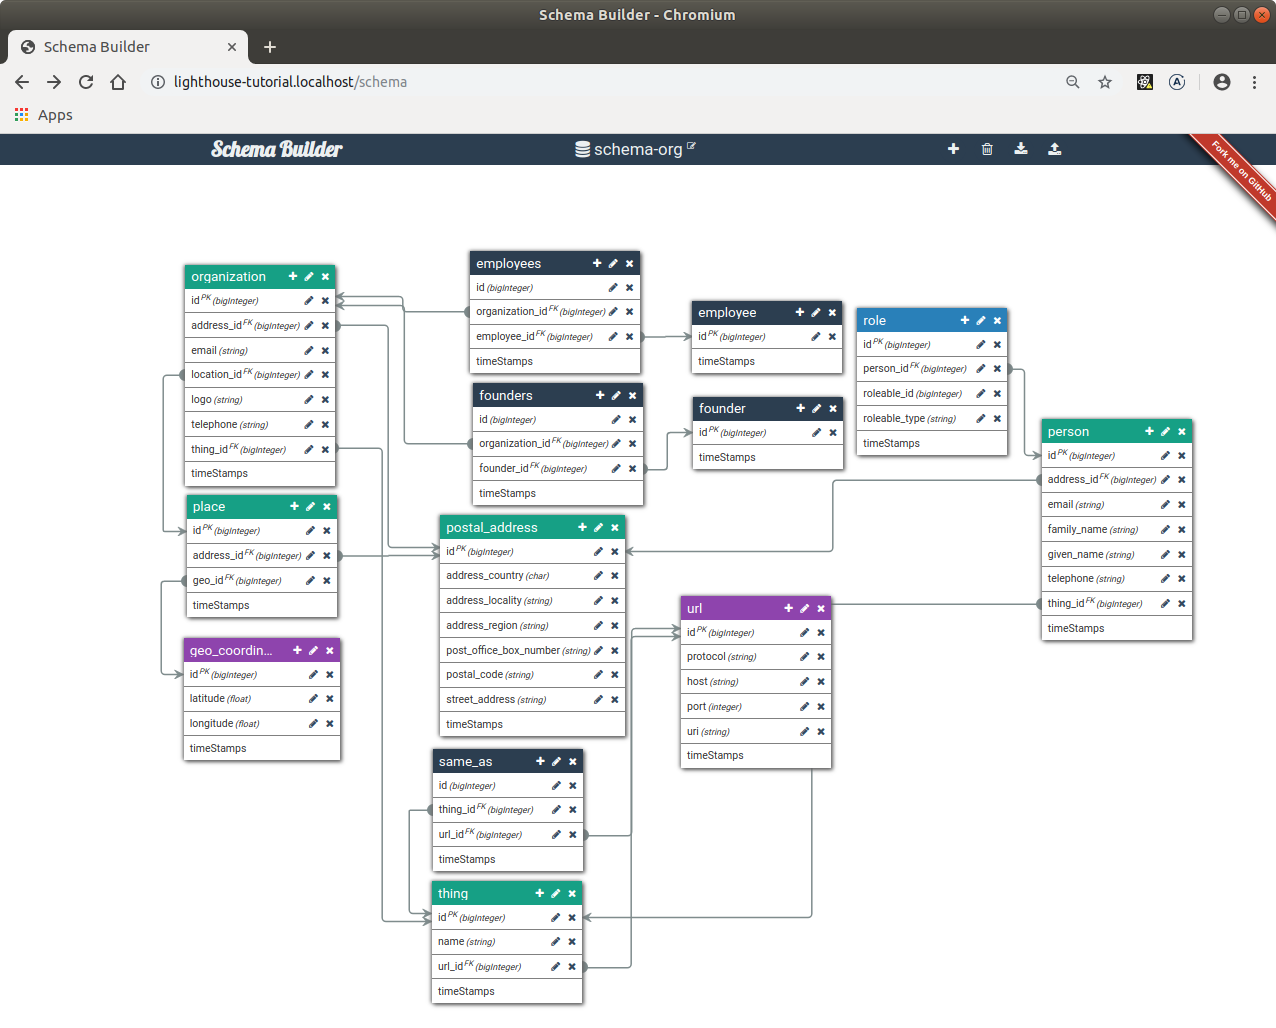
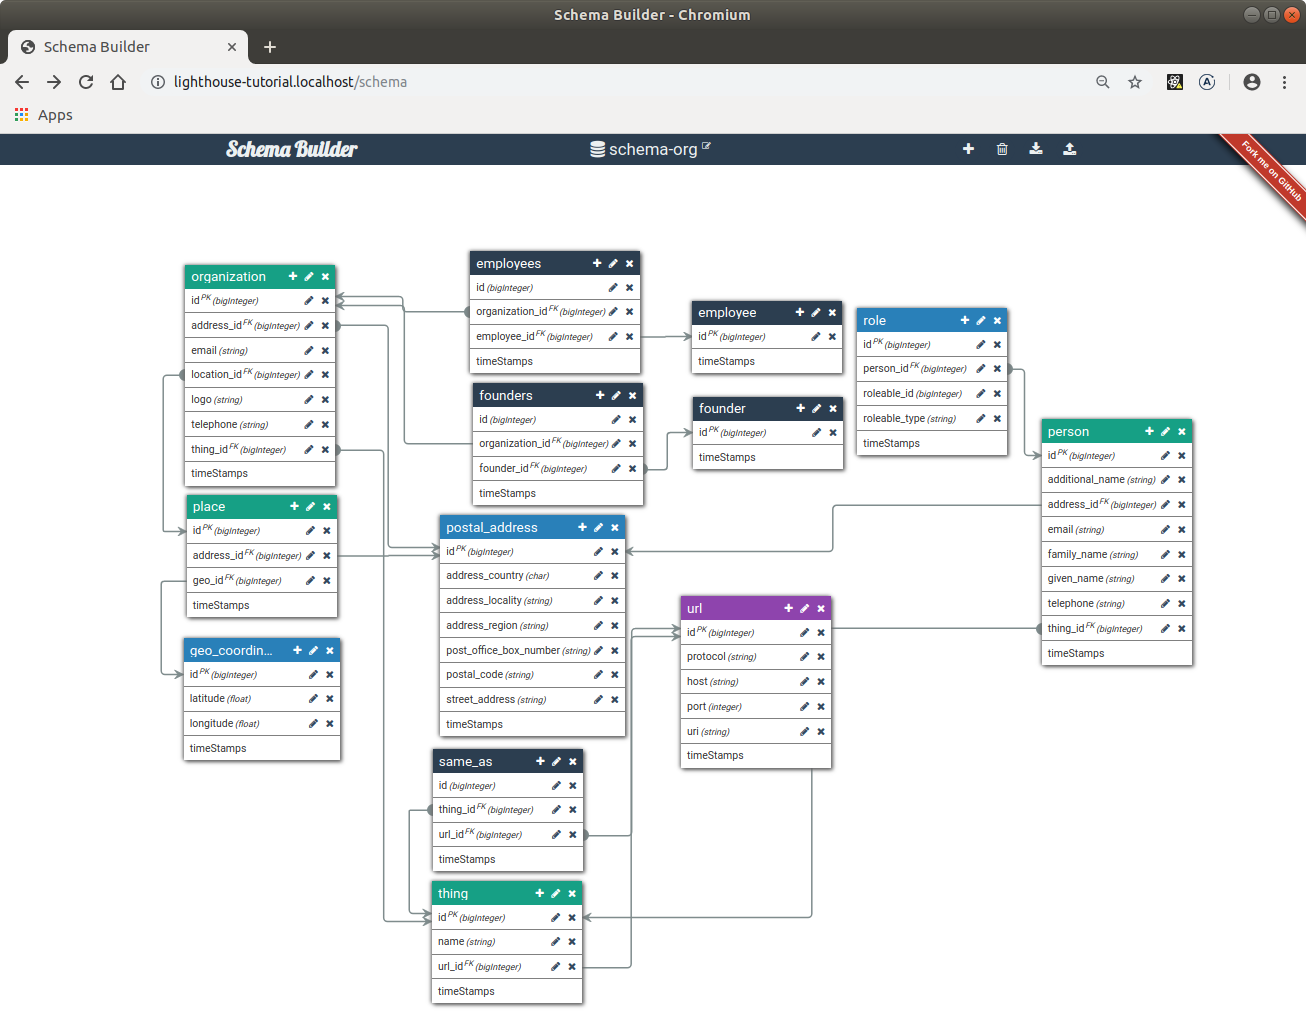
Person additionalName

diff --git a/app/Models/Person.php b/app/Models/Person.php
@@ -22,7 +22,10 @@ class Person extends \App\Models\Base\Person
 
 	public function getSchemaOrgSchemaAttribute()
 	{
+		$additional_name = $this->additional_name ? $this->additional_name : null;
+
 		$person = Schema::Person()
+			->additionalName($additional_name)
 			->givenName($this->given_name)
 			->familyName($this->family_name)
 			->email($this->email)
